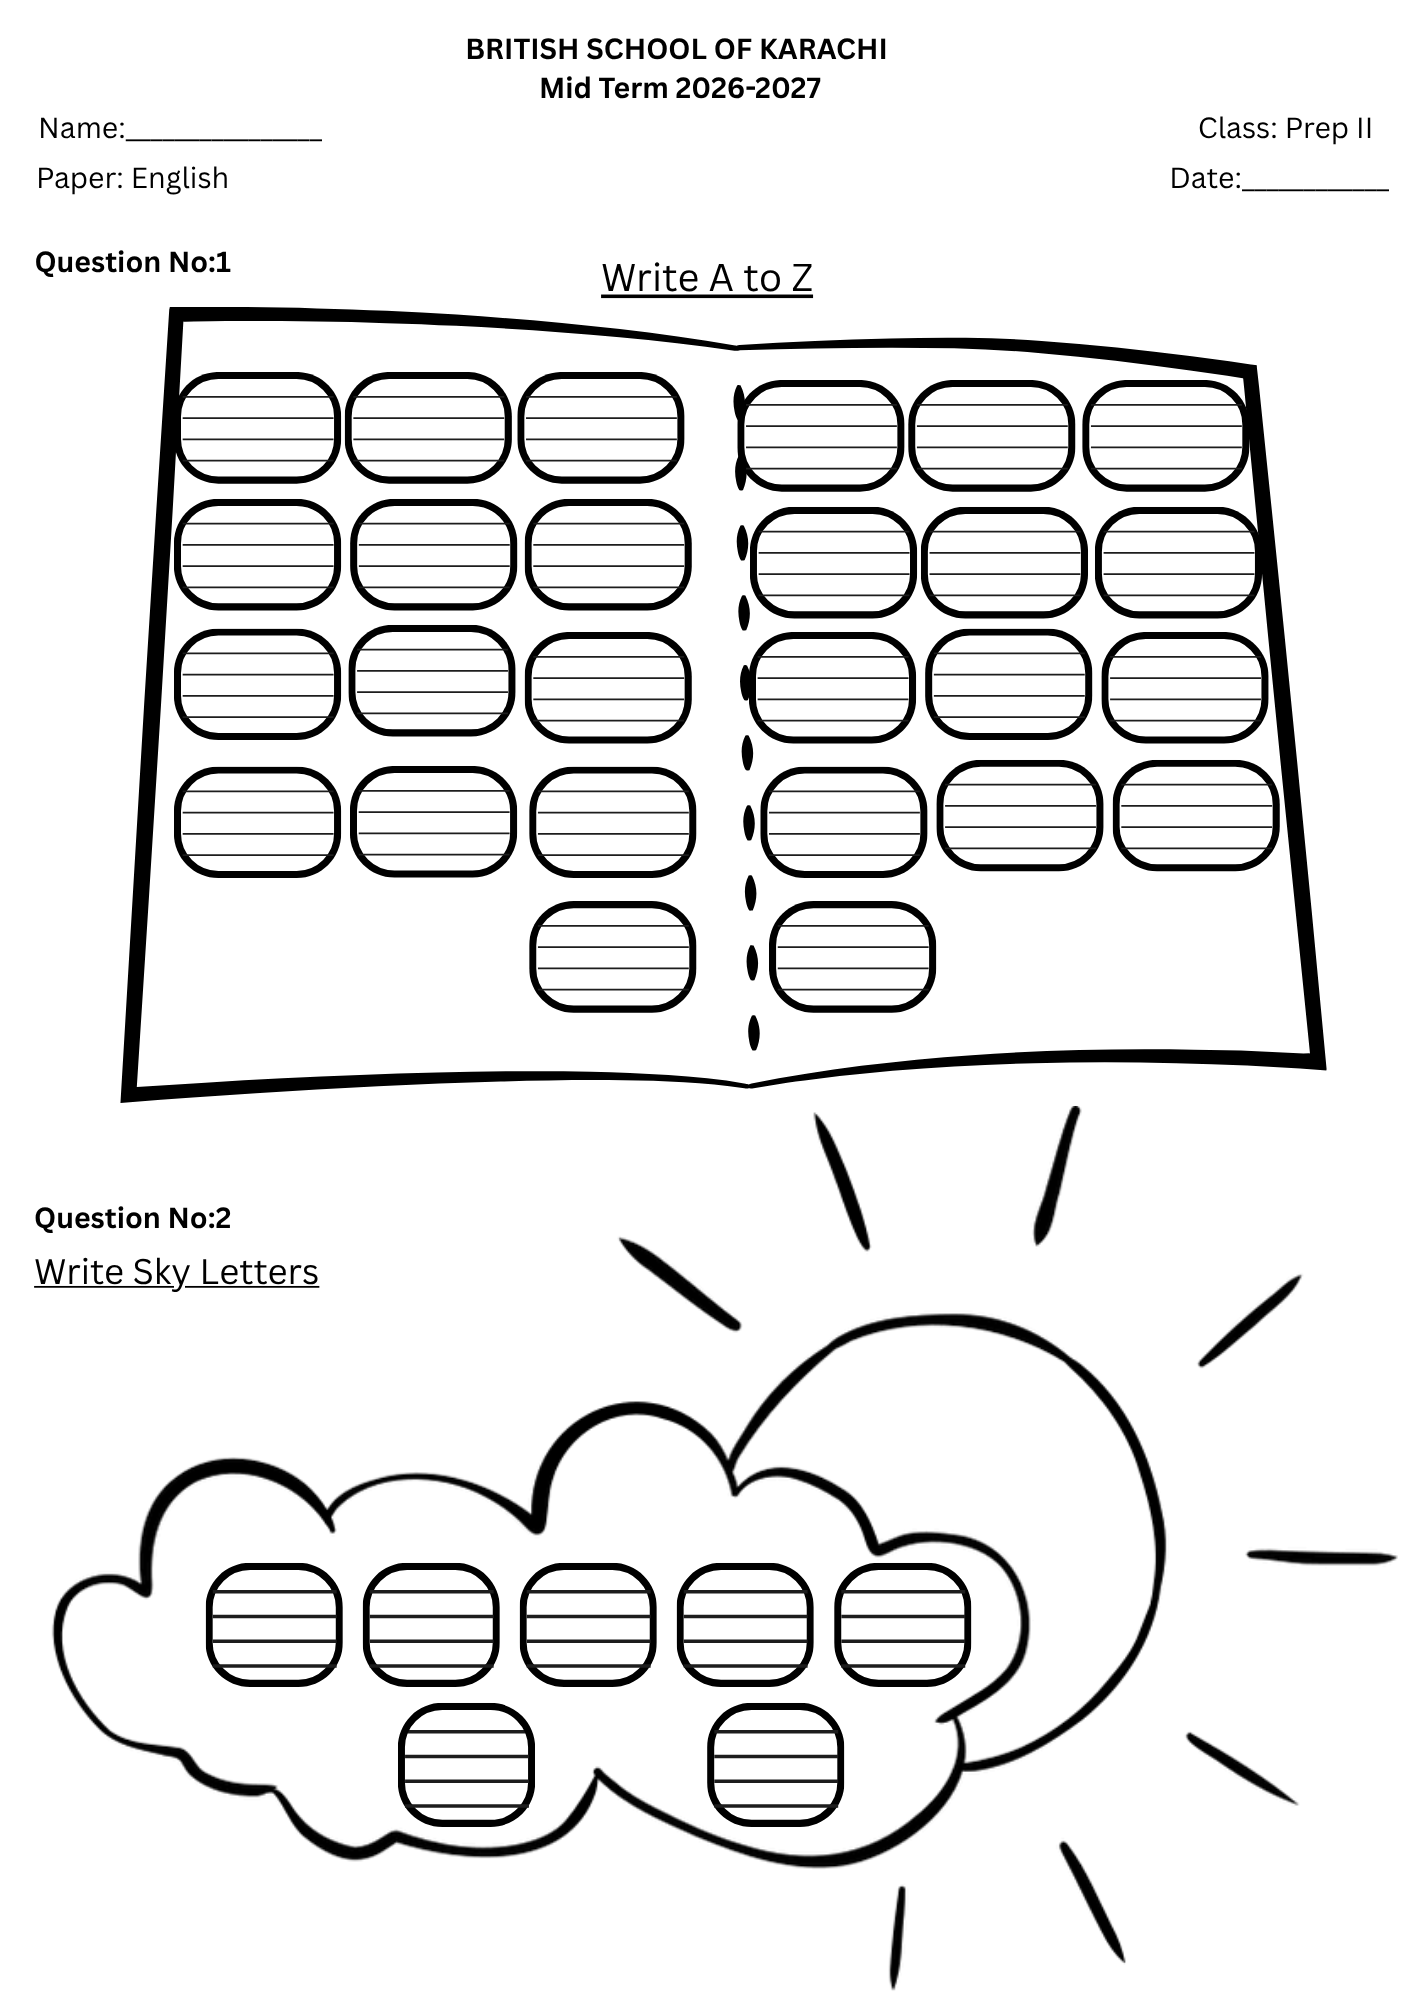
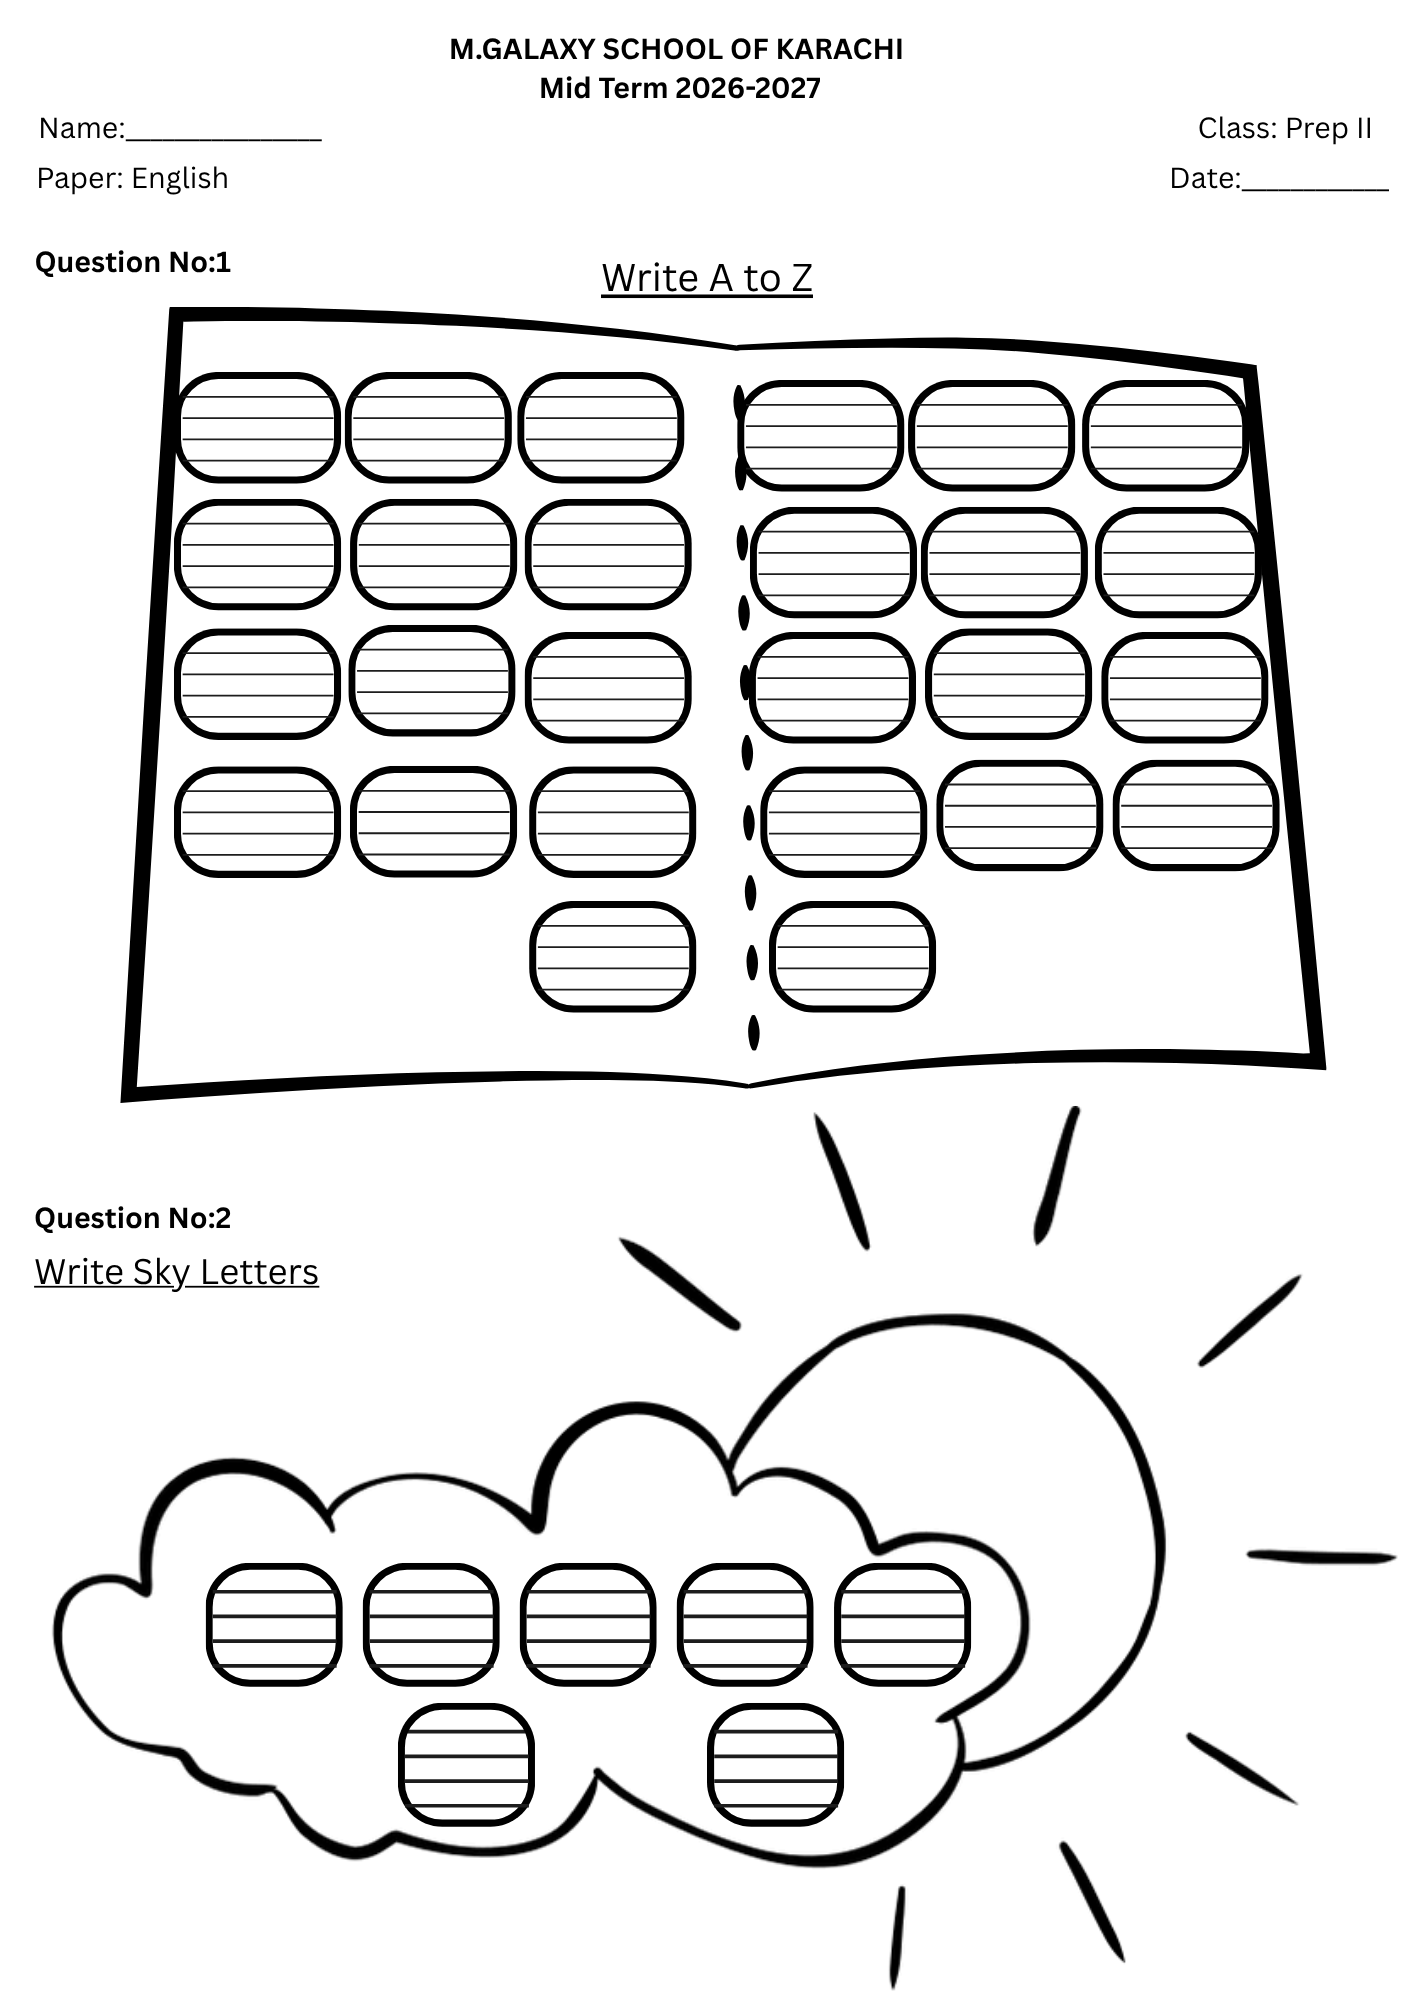
Add files via upload

Changed region(s): [[0.3112, 0.0, 0.6535, 0.031]]

diff --git a/index.html b/index.html
@@ -284,6 +284,7 @@
                 <button id="tabPaper" class="tab-btn px-5 py-2.5 rounded-full font-medium transition text-sm" onclick="switchTab('paper')">&#128196; Paper</button>
                 <button id="tabResult" class="tab-btn px-5 py-2.5 rounded-full font-medium transition text-sm" onclick="switchTab('result')">&#9784; Result</button>
                 <button id="tabPreprimary" class="tab-btn px-5 py-2.5 rounded-full font-medium transition text-sm" onclick="switchTab('preprimary')">&#9826; Pre-Primary</button>
+                <button id="tabSocialmedia" class="tab-btn px-5 py-2.5 rounded-full font-medium transition text-sm" onclick="switchTab('socialmedia')">&#127760; Social Media</button>
             </div>
 
             <!-- ALL Tab (shows everything) -->
@@ -321,6 +322,10 @@
                             <div class="project-card glass rounded-xl overflow-hidden cursor-pointer" onclick="window.open('Syllabus_MidTerm_Class1.pdf','_blank')">
                                 <img src="syllabus_class1.jpeg" alt="Syllabus Class 1" class="w-full h-48 object-cover" loading="lazy">
                                 <div class="p-3"><p class="text-sm text-gray-300">Syllabus Overview — All Subjects</p></div>
+                            </div>
+                            <div class="project-card glass rounded-xl overflow-hidden cursor-pointer" onclick="openModal('syllabus-class-1.png','Syllabus Class 1 — Detailed Page')">
+                                <img src="syllabus-class-1.png" alt="Syllabus Class 1 Detailed" class="w-full h-48 object-cover" loading="lazy">
+                                <div class="p-3"><p class="text-sm text-gray-300">Syllabus Class 1 — Detailed Page</p></div>
                             </div>
                             <div class="project-card glass rounded-xl overflow-hidden cursor-pointer" onclick="openModal('islamiat (1).png','Islamiat — Page 1')">
                                 <img src="islamiat (1).png" alt="Islamiat Page 1" class="w-full h-48 object-cover" loading="lazy">
@@ -482,6 +487,46 @@
                     </div>
 
                     <div>
+                        <h3 class="text-2xl font-bold text-violet-300 mb-2">&#127760; Social Media</h3>
+                        <p class="text-gray-400 mb-8">Creative posts designed for school social media pages.</p>
+
+                        <div class="grid grid-cols-1 md:grid-cols-2 gap-6">
+                        <div class="glass rounded-2xl overflow-hidden cursor-pointer" onclick="openModal('summer-vacation.png','Summer Vacation — Social Media Post')">
+                            <div class="flex items-center gap-3 p-4">
+                                <img src="logo.png" alt="Logo" class="w-10 h-10 rounded-full object-cover border border-violet-400/40">
+                                <div>
+                                    <p class="text-sm font-semibold text-white">ABC School</p>
+                                    <p class="text-xs text-gray-400">&#128281; Announcement &middot; Summer 2026</p>
+                                </div>
+                            </div>
+                            <img src="summer-vacation.png" alt="Summer Vacation Post" class="w-full h-64 object-contain bg-black/30" loading="lazy">
+                            <div class="p-4 space-y-2">
+                                <div class="flex items-center gap-5 text-gray-400 text-lg">
+                                    <span title="Like">&#10084;&#65039;</span>
+                                    <span title="Comment">&#128172;</span>
+                                    <span title="Share">&#8599;</span>
+                                </div>
+                                <p class="text-sm text-gray-300"><span class="font-semibold text-white">abc_school</span> &#9728;&#65039; Summer Vacations Announced! Wishing all our students a safe and happy holiday. &#127774;</p>
+                            </div>
+                        </div>
+
+                        <div class="glass rounded-2xl overflow-hidden cursor-pointer" onclick="openModal('reopen-school.jpg','School Reopening')">
+                            <div class="flex items-center gap-3 p-4">
+                                <img src="logo.png" alt="Logo" class="w-10 h-10 rounded-full object-cover border border-violet-400/40">
+                                <div>
+                                    <p class="text-sm font-semibold text-white">ABC School</p>
+                                    <p class="text-xs text-gray-400">Announcement &middot; School Reopening</p>
+                                </div>
+                            </div>
+                            <img src="reopen-school.jpg" alt="School Reopening" class="w-full h-64 object-contain bg-black/30" loading="lazy">
+                            <div class="p-4">
+                                <p class="text-sm text-gray-300"><span class="font-semibold text-white">abc_school</span> School reopening announcement.</p>
+                            </div>
+                        </div>
+                        </div>
+                    </div>
+
+                    <div>
                         <h3 class="section-title">&#9783; Subjects Covered</h3>
                         <div class="glass rounded-xl p-6">
                             <h4 class="text-lg font-semibold text-violet-300 mb-4">Class 1 — Mid Term Syllabus</h4>
@@ -536,6 +581,10 @@
                     <div class="project-card glass rounded-xl overflow-hidden cursor-pointer" onclick="window.open('Syllabus_MidTerm_Class1.pdf','_blank')">
                         <img src="syllabus_class1.jpeg" alt="Syllabus Class 1" class="w-full h-48 object-cover" loading="lazy">
                         <div class="p-3"><p class="text-sm text-gray-300">Syllabus Overview — All Subjects</p></div>
+                    </div>
+                    <div class="project-card glass rounded-xl overflow-hidden cursor-pointer" onclick="openModal('syllabus-class-1.png','Syllabus Class 1 — Detailed Page')">
+                        <img src="syllabus-class-1.png" alt="Syllabus Class 1 Detailed" class="w-full h-48 object-cover" loading="lazy">
+                        <div class="p-3"><p class="text-sm text-gray-300">Syllabus Class 1 — Detailed Page</p></div>
                     </div>
                     <div class="project-card glass rounded-xl overflow-hidden cursor-pointer" onclick="openModal('islamiat (1).png','Islamiat — Page 1')">
                         <img src="islamiat (1).png" alt="Islamiat Page 1" class="w-full h-48 object-cover" loading="lazy">
@@ -711,6 +760,47 @@
                         <img src="pre3.png" alt="Pre-Primary 3" class="w-full h-48 object-cover" loading="lazy">
                         <div class="p-3"><p class="text-sm text-gray-300">Activity 3 — Missing Alphabet</p></div>
                     </div>
+                </div>
+            </div>
+
+            <!-- Social Media Tab -->
+            <div id="contentSocialmedia" class="tab-content hidden">
+                <h3 class="text-2xl font-bold text-violet-300 mb-2">&#127760; Social Media</h3>
+                <p class="text-gray-400 mb-8">Creative posts designed for school social media pages.</p>
+
+                <div class="grid grid-cols-1 md:grid-cols-2 gap-6">
+                <div class="glass rounded-2xl overflow-hidden cursor-pointer" onclick="openModal('summer-vacation.png','Summer Vacation — Social Media Post')">
+                    <div class="flex items-center gap-3 p-4">
+                        <img src="logo.png" alt="Logo" class="w-10 h-10 rounded-full object-cover border border-violet-400/40">
+                        <div>
+                            <p class="text-sm font-semibold text-white">ABC School</p>
+                            <p class="text-xs text-gray-400">&#128281; Announcement &middot; Summer 2026</p>
+                        </div>
+                    </div>
+                    <img src="summer-vacation.png" alt="Summer Vacation Post" class="w-full h-64 object-contain bg-black/30" loading="lazy">
+                    <div class="p-4 space-y-2">
+                        <div class="flex items-center gap-5 text-gray-400 text-lg">
+                            <span title="Like">&#10084;&#65039;</span>
+                            <span title="Comment">&#128172;</span>
+                            <span title="Share">&#8599;</span>
+                        </div>
+                        <p class="text-sm text-gray-300"><span class="font-semibold text-white">abc_school</span> &#9728;&#65039; Summer Vacations Announced! Wishing all our students a safe and happy holiday. &#127774;</p>
+                    </div>
+                </div>
+
+                <div class="glass rounded-2xl overflow-hidden cursor-pointer" onclick="openModal('reopen-school.jpg','School Reopening')">
+                    <div class="flex items-center gap-3 p-4">
+                        <img src="logo.png" alt="Logo" class="w-10 h-10 rounded-full object-cover border border-violet-400/40">
+                        <div>
+                            <p class="text-sm font-semibold text-white">ABC School</p>
+                            <p class="text-xs text-gray-400">Announcement &middot; School Reopening</p>
+                        </div>
+                    </div>
+                    <img src="reopen-school.jpg" alt="School Reopening" class="w-full h-64 object-contain bg-black/30" loading="lazy">
+                    <div class="p-4">
+                        <p class="text-sm text-gray-300"><span class="font-semibold text-white">abc_school</span> School reopening announcement.</p>
+                    </div>
+                </div>
                 </div>
             </div>
 
